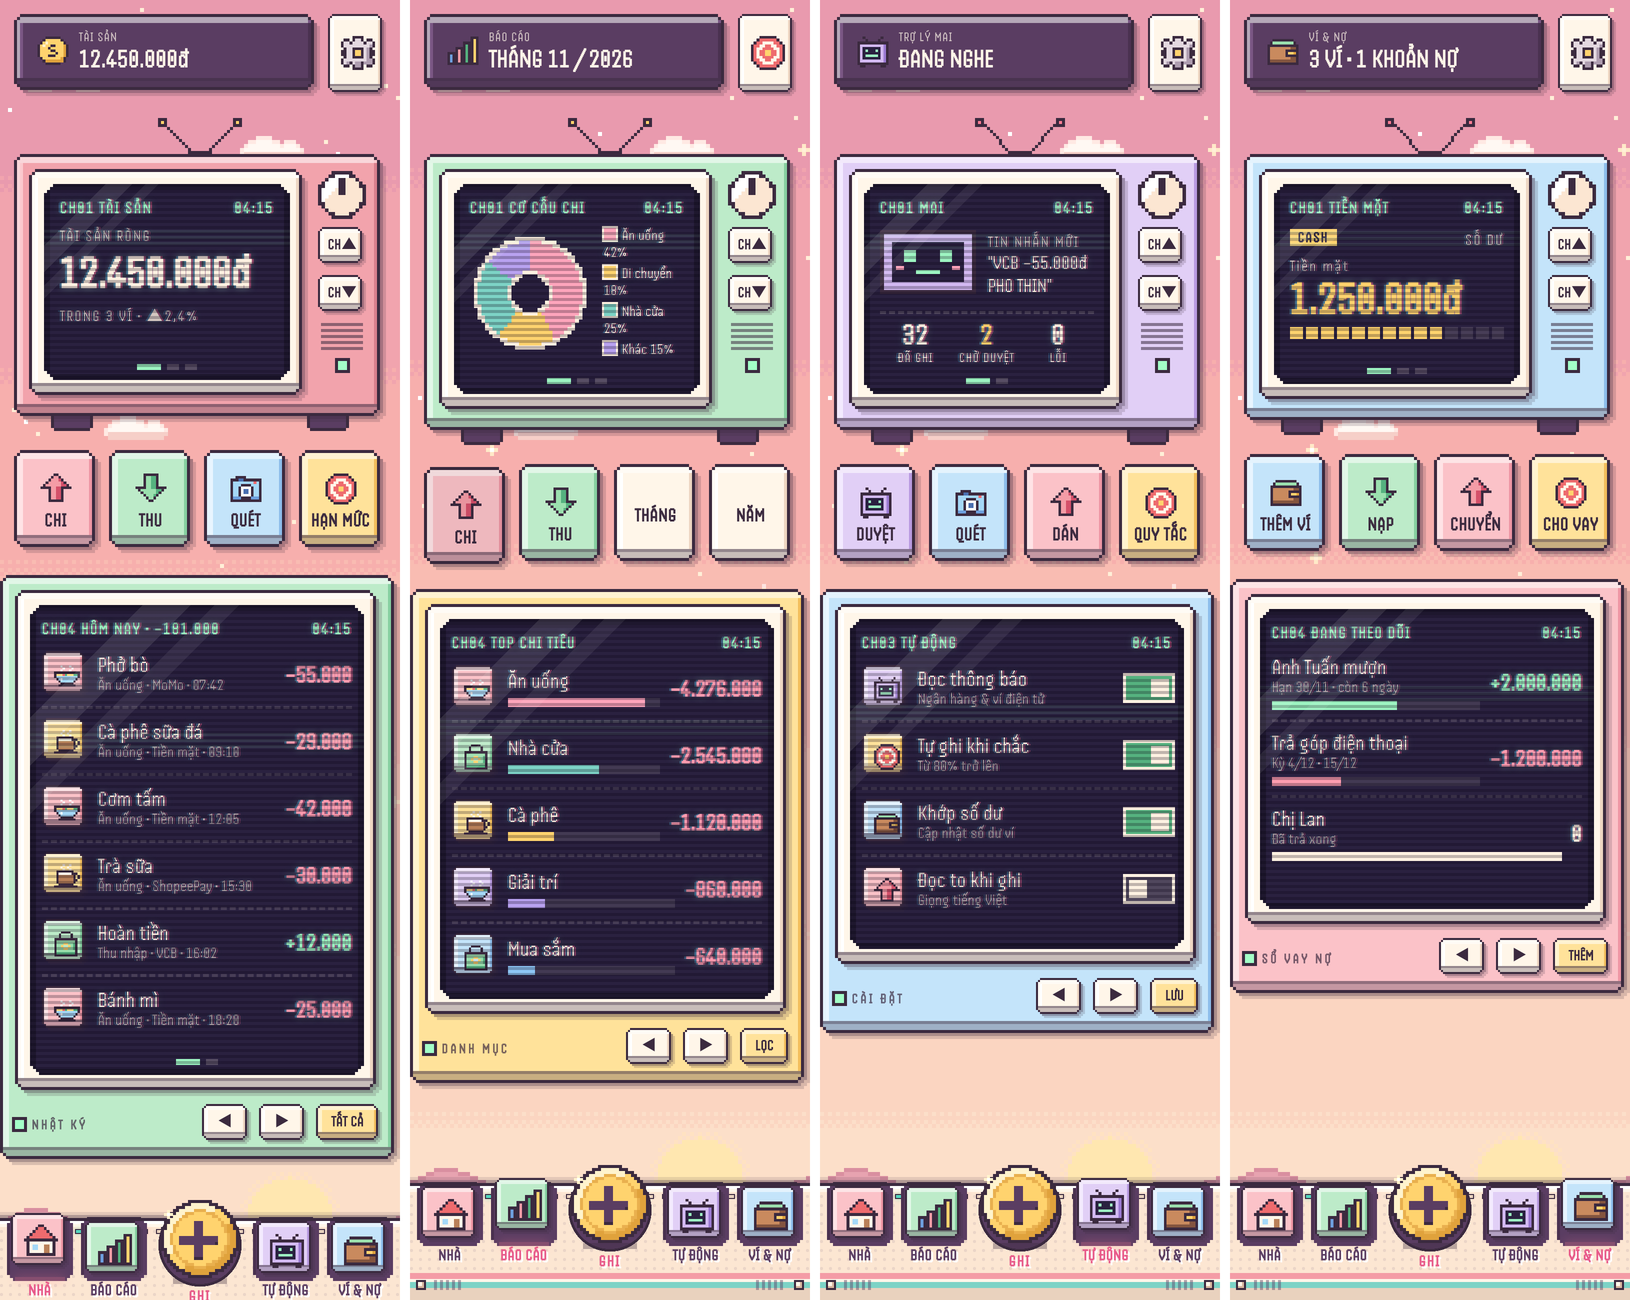
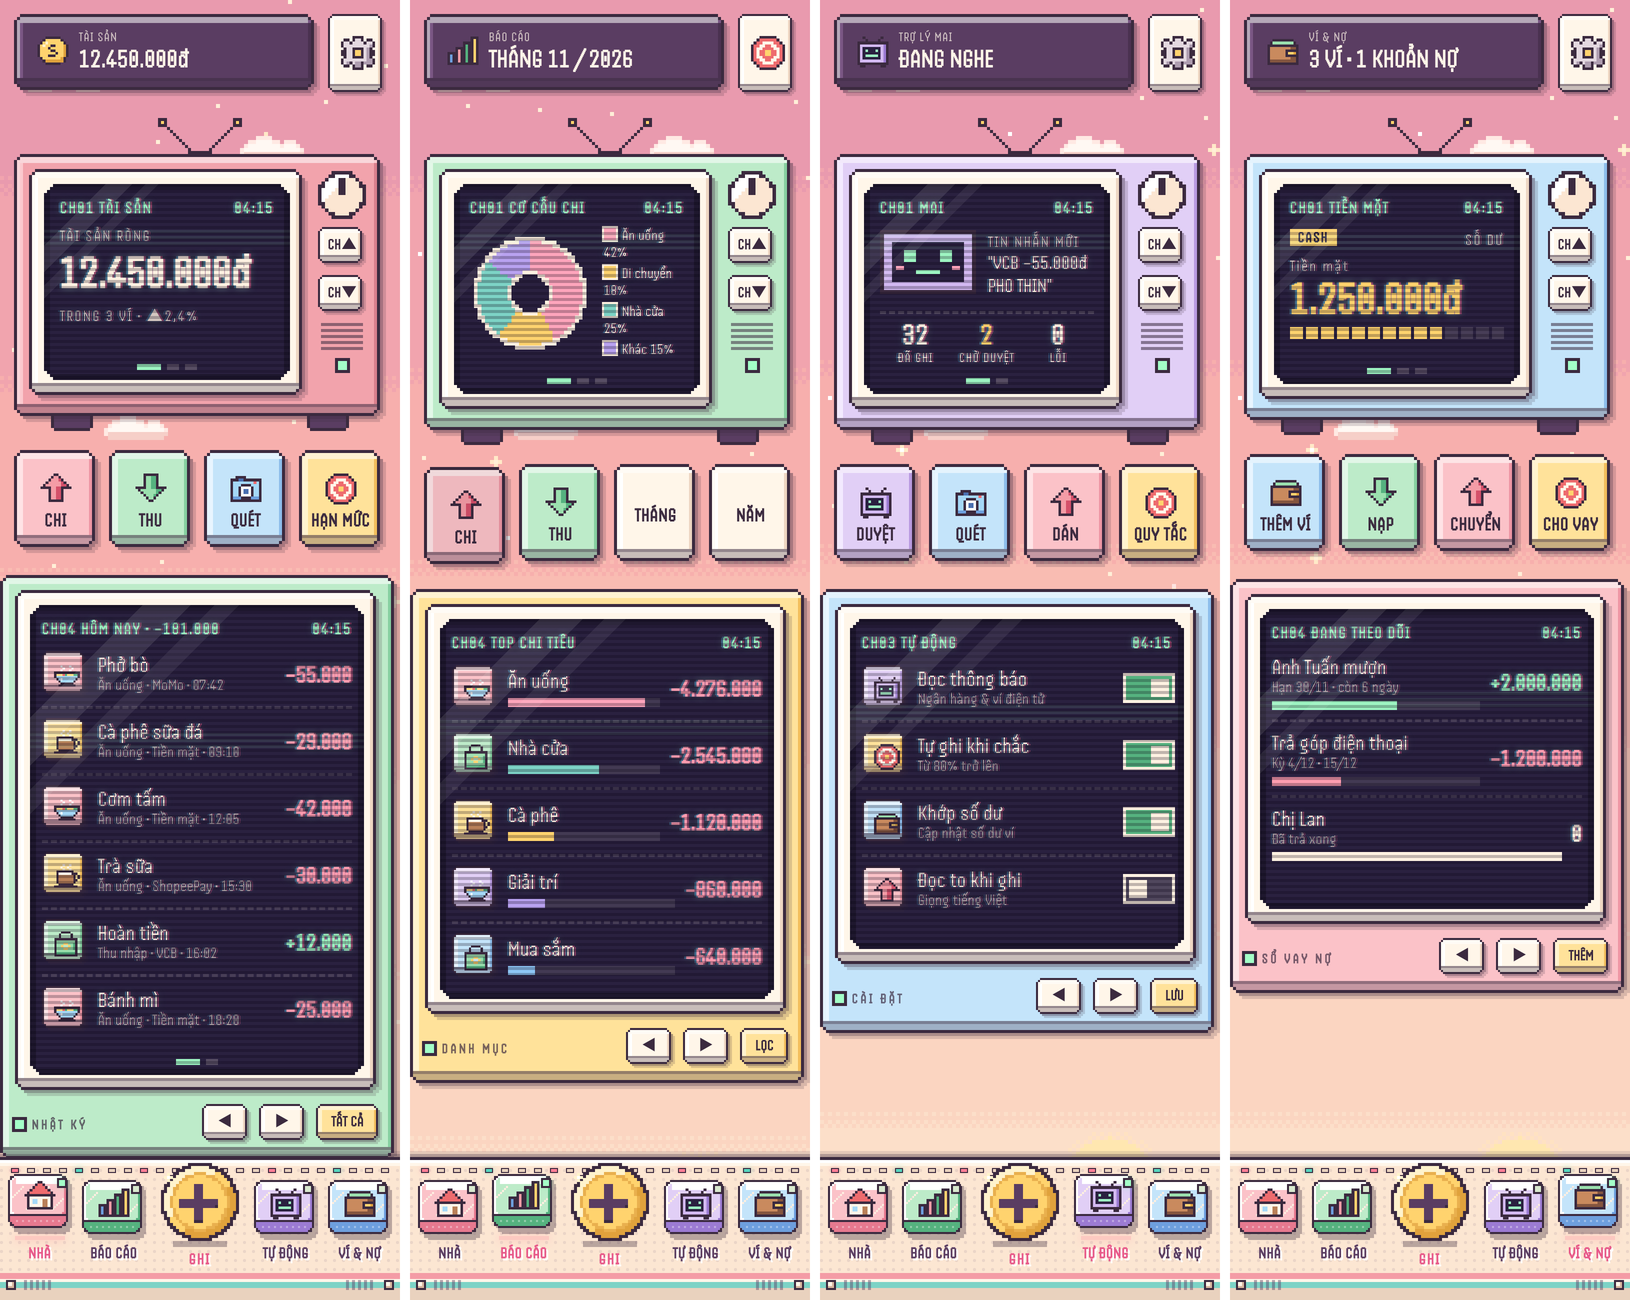
Pixel UI mockup: drop dock sockets, new pixel keycaps (glossy face, thick side, LED), fixed dock
Claude-Session: https://claude.ai/code/session_01FJNvN5z83tJBi6FoMbuiCK

Changed region(s): [[0.0, 0.8615, 1.0, 1.0]]

diff --git a/design/pixel-ui/mock.html b/design/pixel-ui/mock.html
@@ -14,7 +14,7 @@
 html,body{background:#F2BDB4}
 body{font-family:Handjet,system-ui,sans-serif;color:var(--ink);font-size:20px;width:400px;min-height:1300px;position:relative;overflow:hidden;letter-spacing:.02em}
 #sky{position:absolute;left:0;top:0;z-index:0;image-rendering:pixelated}
-.app{position:relative;z-index:1;padding:14px 14px 170px;display:flex;flex-direction:column;gap:22px}
+.app{position:relative;z-index:1;padding:14px 14px 196px;display:flex;flex-direction:column;gap:22px}
 .px{border-style:solid;border-width:calc(var(--S)*5) calc(var(--S)*6) calc(var(--S)*7) calc(var(--S)*5);border-image-slice:5 6 7 5 fill;border-image-repeat:stretch;image-rendering:pixelated}
 .row{display:flex;align-items:center;gap:8px}
 .ico{width:calc(var(--S)*12);height:calc(var(--S)*12);image-rendering:pixelated;flex:none}
@@ -43,7 +43,7 @@ body{font-family:Handjet,system-ui,sans-serif;color:var(--ink);font-size:20px;wi
 .item .m{font-weight:800;font-size:22px}
 .tile{width:42px;height:42px;display:grid;place-items:center;padding:0}
 /* dock */
-.dock{position:absolute;left:0;right:0;bottom:0;z-index:2;height:118px;padding:0 8px 8px;display:grid;grid-template-columns:repeat(2,minmax(0,1fr)) 92px repeat(2,minmax(0,1fr));align-items:end;gap:6px}
+.dock{position:fixed;left:0;width:400px;bottom:0;z-index:2;height:118px;padding:0 8px 8px;display:grid;grid-template-columns:repeat(2,minmax(0,1fr)) 92px repeat(2,minmax(0,1fr));align-items:end;gap:6px}
 .dock .base{position:absolute;inset:30px 0 0;z-index:-1}
 .dk{display:flex;flex-direction:column;align-items:center;gap:4px;font-weight:800;font-size:16px;letter-spacing:.04em;color:var(--cream);white-space:nowrap}
 .dk .cap{width:54px;height:50px;display:grid;place-items:center;padding:0}
@@ -125,7 +125,7 @@ body{font-family:Handjet,system-ui,sans-serif;color:var(--ink);font-size:20px;wi
 .key:active,.dk .cap:active,.mini:active{transform:translate(0,4px)}
 
 /* ---------- Dock tràn đáy, chi tiết + hiệu ứng ---------- */
-.dock{height:150px!important;padding:0 6px 32px!important}
+.dock{height:176px!important;padding:0 6px 34px!important}
 .dock .base{position:absolute;left:0;right:0;bottom:0;top:36px!important;z-index:-1;background:
   radial-gradient(circle at 1.5px 1.5px,rgba(255,255,255,.07) 1.5px,transparent 1.6px) 0 0/9px 9px,
   linear-gradient(180deg,#8A6694 0 3px,#6A4872 3px 6px,#5A3D62 6px calc(100% - 9px),#4A3150 calc(100% - 9px));
@@ -175,6 +175,17 @@ body{font-family:Handjet,system-ui,sans-serif;color:var(--ink);font-size:20px;wi
 .ghi .lb{color:#E7598A;text-shadow:2px 2px 0 #FFFFFF!important}
 .ghi::after{content:"";position:absolute;top:-2px;left:50%;width:92px;height:92px;margin-left:-46px;z-index:-1;border-radius:50%;
   background:radial-gradient(circle,#5A3D62 0 60%,#3B2A3F 60% 64%,transparent 64%)}
+
+/* ---------- Dock v4: bỏ hốc, nút keycap pixel mới ---------- */
+.dk::after,.ghi::after{display:none!important}
+.dk .cap.px{border:0!important;border-image:none!important;width:64px!important;height:60px!important;background:none!important}
+.dk .cap{display:block!important}
+.kc{position:absolute;inset:0;image-rendering:pixelated;width:100%;height:100%}
+.dk .cap .ico{position:absolute;left:50%;top:6px;margin-left:-18px;width:36px;height:36px;z-index:1}
+.dk .cap .led{position:absolute;right:7px;top:6px;width:6px;height:6px;z-index:2;background:#E9D2BE;box-shadow:0 0 0 2px #3B2A3F}
+.dk.on .cap .led{background:#7DFFB0;box-shadow:0 0 0 2px #3B2A3F,0 0 8px #7DFFB0}
+.dk.on .cap{transform:translateY(-6px)}
+.dk:active .cap{transform:translateY(4px)}
 </style></head>
 <body>
 <canvas id="sky" width="100" height="215"></canvas>
@@ -464,6 +475,29 @@ go((location.hash.match(/s=(\w+)/)||[])[1]||"home");
     if(f){P(g,x,bd.y,"#8C5A70");P(g,x+1,bd.y+1,"#8C5A70");P(g,x+2,bd.y,"#8C5A70")}else{P(g,x,bd.y+1,"#8C5A70");P(g,x+1,bd.y,"#8C5A70");P(g,x+2,bd.y+1,"#8C5A70")}bd.x+=bd.sp});
   tick++}
  draw();if(!location.hash.includes("still"))_si?_si(draw,160):setInterval(draw,160);
+})();
+
+// ---------- Keycap pixel cho dock (vẽ mới): mặt phím, viền sáng, thành dày, bóng ----------
+(function(){
+ const COL=[["#FBC2C8","#E7798F"],["#BDEBC9","#55B27F"],["#E1CFF6","#9C7BD3"],["#C4E4FA","#6E9FDE"]];
+ document.querySelectorAll(".dk .cap").forEach((cap,i)=>{
+  const [face,side]=COL[i];const W=32,H=30,cv=document.createElement("canvas");cv.width=W;cv.height=H;cv.className="kc";
+  const g=cv.getContext("2d");const P=(x,y,c)=>{g.fillStyle=c;g.fillRect(x,y,1,1)};
+  const inR=(x,y,x0,y0,x1,y1,r)=>{if(x<x0||x>x1||y<y0||y>y1)return false;const cx=x<x0+r?x0+r:x>x1-r?x1-r:x,cy=y<y0+r?y0+r:y>y1-r?y1-r:y;return Math.hypot(x-cx,y-cy)<=r+.3};
+  for(let y=0;y<H;y++)for(let x=0;x<W;x++){
+   // bóng đổ
+   if(!inR(x,y,0,0,29,26,4)&&inR(x,y,2,2,31,29,4)){P(x,y,"rgba(59,42,63,.35)");continue}
+   if(!inR(x,y,0,0,29,26,4))continue;
+   if(!inR(x,y,1,1,28,25,3)){P(x,y,"#3B2A3F");continue}          // viền mực
+   if(y>=20){P(x,y,y==20?"#3B2A3F":side);continue}                 // thành dày
+   if(!inR(x,y,2,2,27,19,2)){P(x,y,x<6||y<6?"#FFFFFF":side);continue}// mép
+   let c=face;if(y<=4&&x>=4&&x<=24)c="#FFFFFF";                     // dải bóng loáng
+   if((x+y)%13==0&&y>5&&y<18)c="rgba(255,255,255,.35)";
+   P(x,y,c)}
+  // vạch gờ dưới
+  for(let x=4;x<26;x+=3)P(x,23,"rgba(255,255,255,.35)");
+  cap.prepend(cv);const led=document.createElement("i");led.className="led";cap.appendChild(led);
+ });
 })();
 </script>
 </body></html>
